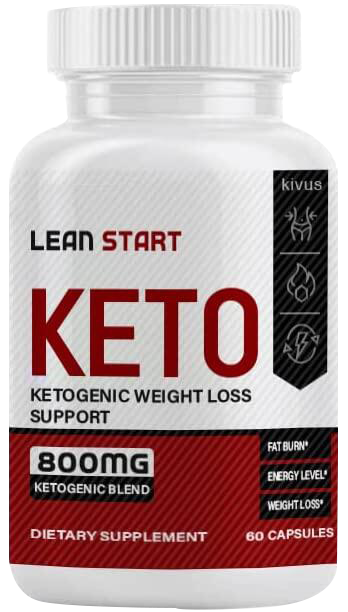
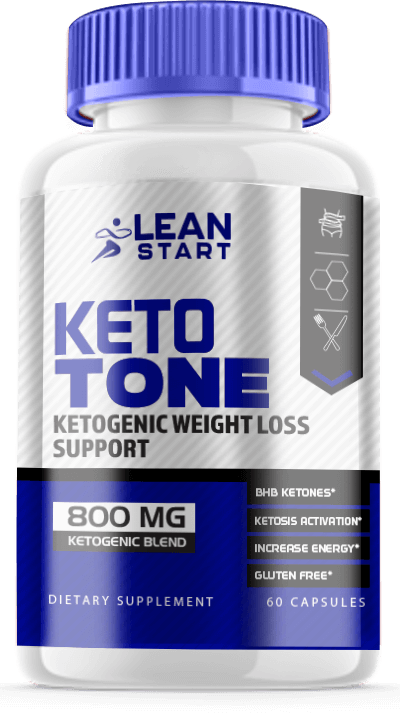
777

diff --git a/ketolean/index.html b/ketolean/index.html
@@ -199,7 +199,7 @@
                                 data-id="1070a67" data-element_type="widget" data-widget_type="heading.default">
                                     <div class="elementor-widget-container">
                                         <h2 class="elementor-heading-title elementor-size-default">
-                                            <a href="./sharktanknew">
+                                            <a href="./sharktanknewtone">
                                                 <u>
                                                     Click Here To Get Keto Lean From Official Site
                                                 </u>
@@ -220,9 +220,9 @@
                                 <div class="elementor-element elementor-element-0a2f1aa elementor-widget elementor-widget-image"
                                 data-id="0a2f1aa" data-element_type="widget" data-widget_type="image.default">
                                     <div class="elementor-widget-container">
-                                        <a href="./sharktanknew">
-                                            <img src="./shenji/lean-start.png" class="attachment-medium size-medium"
-                                            alt="" loading="lazy" srcset="./shenji/lean-start.png">
+                                        <a href="./sharktanknewtone">
+                                            <img src="./shenji/ketoleantone.png" class="attachment-medium size-medium"
+                                            alt="" loading="lazy" srcset="./shenji/ketoleantone.png">
                                         </a>
                                     </div>
                                 </div>
@@ -240,7 +240,7 @@
                                 data-id="4d956e6" data-element_type="widget" data-widget_type="button.default">
                                     <div class="elementor-widget-container">
                                         <div class="elementor-button-wrapper">
-                                            <a href="./sharktanknew" class="elementor-button-link elementor-button elementor-size-lg"
+                                            <a href="./sharktanknewtone" class="elementor-button-link elementor-button elementor-size-lg"
                                             role="button">
                                                 <span class="elementor-button-content-wrapper">
                                                     <span class="elementor-button-text">
@@ -271,9 +271,9 @@
                                 <div class="elementor-element elementor-element-96cdf05 elementor-widget elementor-widget-image"
                                 data-id="96cdf05" data-element_type="widget" data-widget_type="image.default">
                                     <div class="elementor-widget-container">
-                                        <a href="./sharktanknew">
-                                            <img width="1029" height="489" src="./shenji/shark-tank-(1).jpg" class="attachment-full size-full"
-                                            alt="" loading="lazy" srcset="./shenji/shark-tank-(1).jpg"
+                                        <a href="./sharktanknewtone">
+                                            <img width="1029" height="489" src="./shenji/shark-tank-tone.jpg" class="attachment-full size-full"
+                                            alt="" loading="lazy" srcset="./shenji/shark-tank-tone.jpg"
                                             sizes="(max-width: 1029px) 100vw, 1029px">
                                         </a>
                                     </div>
@@ -296,7 +296,7 @@
                                 data-id="4d956e6" data-element_type="widget" data-widget_type="button.default">
                                     <div class="elementor-widget-container">
                                         <div class="elementor-button-wrapper">
-                                            <a href="./sharktanknew" class="elementor-button-link elementor-button elementor-size-lg"
+                                            <a href="./sharktanknewtone" class="elementor-button-link elementor-button elementor-size-lg"
                                             role="button">
                                                 <span class="elementor-button-content-wrapper">
                                                     <span class="elementor-button-text">
@@ -347,7 +347,7 @@ Real Success Stories </p >
                                 <div class="elementor-element elementor-element-96cdf05 elementor-widget elementor-widget-image"
                                 data-id="96cdf05" data-element_type="widget" data-widget_type="image.default">
                                     <div class="elementor-widget-container">
-                                        <a href="./sharktanknew">
+                                        <a href="./sharktanknewtone">
                                             <img width="1029" height="489" src="./shenji/vvv.jpg" class="attachment-full size-full"
                                             alt="" loading="lazy" srcset="./shenji/vvv.jpg"
                                             sizes="(max-width: 1029px) 100vw, 1029px">
@@ -372,7 +372,7 @@ Real Success Stories </p >
                                 data-id="4d956e6" data-element_type="widget" data-widget_type="button.default">
                                     <div class="elementor-widget-container">
                                         <div class="elementor-button-wrapper">
-                                            <a href="./sharktanknew" class="elementor-button-link elementor-button elementor-size-lg"
+                                            <a href="./sharktanknewtone" class="elementor-button-link elementor-button elementor-size-lg"
                                             role="button">
                                                 <span class="elementor-button-content-wrapper">
                                                     <span class="elementor-button-text">
@@ -400,7 +400,7 @@ Real Success Stories </p >
                                 <div class="elementor-element elementor-element-96cdf05 elementor-widget elementor-widget-image"
                                 data-id="96cdf05" data-element_type="widget" data-widget_type="image.default">
                                     <div class="elementor-widget-container">
-                                        <a href="./sharktanknew">
+                                        <a href="./sharktanknewtone">
                                             <img width="1029" height="489" src="./shenji/a.jpg" class="attachment-full size-full"
                                             alt="" loading="lazy" srcset="./shenji/a.jpg"
                                             sizes="(max-width: 1029px) 100vw, 1029px">
@@ -425,7 +425,7 @@ Real Success Stories </p >
                                 data-id="4d956e6" data-element_type="widget" data-widget_type="button.default">
                                     <div class="elementor-widget-container">
                                         <div class="elementor-button-wrapper">
-                                            <a href="./sharktanknew" class="elementor-button-link elementor-button elementor-size-lg"
+                                            <a href="./sharktanknewtone" class="elementor-button-link elementor-button elementor-size-lg"
                                             role="button">
                                                 <span class="elementor-button-content-wrapper">
                                                     <span class="elementor-button-text">
@@ -453,7 +453,7 @@ Real Success Stories </p >
                                 <div class="elementor-element elementor-element-96cdf05 elementor-widget elementor-widget-image"
                                 data-id="96cdf05" data-element_type="widget" data-widget_type="image.default">
                                     <div class="elementor-widget-container">
-                                        <a href="./sharktanknew">
+                                        <a href="./sharktanknewtone">
                                             <img width="1029" height="489" src="./shenji/b.jpg" class="attachment-full size-full"
                                             alt="" loading="lazy" srcset="./shenji/b.jpg"
                                             sizes="(max-width: 1029px) 100vw, 1029px">
@@ -478,7 +478,7 @@ Real Success Stories </p >
                                 data-id="4d956e6" data-element_type="widget" data-widget_type="button.default">
                                     <div class="elementor-widget-container">
                                         <div class="elementor-button-wrapper">
-                                            <a href="./sharktanknew" class="elementor-button-link elementor-button elementor-size-lg"
+                                            <a href="./sharktanknewtone" class="elementor-button-link elementor-button elementor-size-lg"
                                             role="button">
                                                 <span class="elementor-button-content-wrapper">
                                                     <span class="elementor-button-text">
@@ -506,7 +506,7 @@ Real Success Stories </p >
                                 <div class="elementor-element elementor-element-96cdf05 elementor-widget elementor-widget-image"
                                 data-id="96cdf05" data-element_type="widget" data-widget_type="image.default">
                                     <div class="elementor-widget-container">
-                                        <a href="./sharktanknew">
+                                        <a href="./sharktanknewtone">
                                             <img width="1029" height="489" src="./shenji/c.jpeg" class="attachment-full size-full"
                                             alt="" loading="lazy" srcset="./shenji/c.jpeg"
                                             sizes="(max-width: 1029px) 100vw, 1029px">
@@ -531,7 +531,7 @@ Real Success Stories </p >
                                 data-id="4d956e6" data-element_type="widget" data-widget_type="button.default">
                                     <div class="elementor-widget-container">
                                         <div class="elementor-button-wrapper">
-                                            <a href="./sharktanknew" class="elementor-button-link elementor-button elementor-size-lg"
+                                            <a href="./sharktanknewtone" class="elementor-button-link elementor-button elementor-size-lg"
                                             role="button">
                                                 <span class="elementor-button-content-wrapper">
                                                     <span class="elementor-button-text">
@@ -559,7 +559,7 @@ Real Success Stories </p >
                                 <div class="elementor-element elementor-element-96cdf05 elementor-widget elementor-widget-image"
                                 data-id="96cdf05" data-element_type="widget" data-widget_type="image.default">
                                     <div class="elementor-widget-container">
-                                        <a href="./sharktanknew">
+                                        <a href="./sharktanknewtone">
                                             <img width="1029" height="489" src="./shenji/d.jpg" class="attachment-full size-full"
                                             alt="" loading="lazy" srcset="./shenji/d.jpg"
                                             sizes="(max-width: 1029px) 100vw, 1029px">
@@ -584,7 +584,7 @@ Real Success Stories </p >
                                 data-id="4d956e6" data-element_type="widget" data-widget_type="button.default">
                                     <div class="elementor-widget-container">
                                         <div class="elementor-button-wrapper">
-                                            <a href="./sharktanknew" class="elementor-button-link elementor-button elementor-size-lg"
+                                            <a href="./sharktanknewtone" class="elementor-button-link elementor-button elementor-size-lg"
                                             role="button">
                                                 <span class="elementor-button-content-wrapper">
                                                     <span class="elementor-button-text">
@@ -612,7 +612,7 @@ Real Success Stories </p >
                                 <div class="elementor-element elementor-element-96cdf05 elementor-widget elementor-widget-image"
                                 data-id="96cdf05" data-element_type="widget" data-widget_type="image.default">
                                     <div class="elementor-widget-container">
-                                        <a href="./sharktanknew">
+                                        <a href="./sharktanknewtone">
                                             <img width="1029" height="489" src="./shenji/e.jpg" class="attachment-full size-full"
                                             alt="" loading="lazy" srcset="./shenji/e.jpg"
                                             sizes="(max-width: 1029px) 100vw, 1029px">
@@ -637,7 +637,7 @@ Real Success Stories </p >
                                 data-id="4d956e6" data-element_type="widget" data-widget_type="button.default">
                                     <div class="elementor-widget-container">
                                         <div class="elementor-button-wrapper">
-                                            <a href="./sharktanknew" class="elementor-button-link elementor-button elementor-size-lg"
+                                            <a href="./sharktanknewtone" class="elementor-button-link elementor-button elementor-size-lg"
                                             role="button">
                                                 <span class="elementor-button-content-wrapper">
                                                     <span class="elementor-button-text">
@@ -666,7 +666,7 @@ Real Success Stories </p >
                                 <div class="elementor-element elementor-element-96cdf05 elementor-widget elementor-widget-image"
                                 data-id="96cdf05" data-element_type="widget" data-widget_type="image.default">
                                     <div class="elementor-widget-container">
-                                        <a href="./sharktanknew">
+                                        <a href="./sharktanknewtone">
                                             <img width="1029" height="489" src="./shenji/f.jpg" class="attachment-full size-full"
                                             alt="" loading="lazy" srcset="./shenji/f.jpg"
                                             sizes="(max-width: 1029px) 100vw, 1029px">
@@ -691,7 +691,7 @@ Real Success Stories </p >
                                 data-id="4d956e6" data-element_type="widget" data-widget_type="button.default">
                                     <div class="elementor-widget-container">
                                         <div class="elementor-button-wrapper">
-                                            <a href="./sharktanknew" class="elementor-button-link elementor-button elementor-size-lg"
+                                            <a href="./sharktanknewtone" class="elementor-button-link elementor-button elementor-size-lg"
                                             role="button">
                                                 <span class="elementor-button-content-wrapper">
                                                     <span class="elementor-button-text">
@@ -773,7 +773,7 @@ you will get it within 24 hours from the moment you sendme the request. So you h
                                 <div class="elementor-element elementor-element-0de021a elementor-widget elementor-widget-image"
                                 data-id="0de021a" data-element_type="widget" data-widget_type="image.default">
                                     <div class="elementor-widget-container">
-                                        <a href="./sharktanknew">
+                                        <a href="./sharktanknewtone">
                                             <img width="215" height="300" src="./static/kt-215x300.png" class="attachment-medium size-medium" alt="" loading="lazy" srcset="./static/kt-215x300.png" sizes="(max-width: 215px) 100vw, 215px">
                                         </a>
                                     </div>
@@ -782,7 +782,7 @@ you will get it within 24 hours from the moment you sendme the request. So you h
                                 data-id="7badd9a" data-element_type="widget" data-widget_type="button.default">
                                     <div class="elementor-widget-container">
                                         <div class="elementor-button-wrapper">
-                                            <a href="./sharktanknew" class="elementor-button-link elementor-button elementor-size-lg"
+                                            <a href="./sharktanknewtone" class="elementor-button-link elementor-button elementor-size-lg"
                                             role="button">
                                                 <span class="elementor-button-content-wrapper">
                                                     <span class="elementor-button-text">
@@ -818,7 +818,7 @@ you will get it within 24 hours from the moment you sendme the request. So you h
                                 data-id="19e9bf3" data-element_type="widget" data-widget_type="heading.default">
                                     <div class="elementor-widget-container">
                                         <h2 class="elementor-heading-title elementor-size-default">
-                                            <a href="./sharktanknew">
+                                            <a href="./sharktanknewtone">
                                                 <u>
                                                     Click Here To Get Keto Lean From Official Site
                                                 </u>
@@ -872,7 +872,7 @@ you will get it within 24 hours from the moment you sendme the request. So you h
                                 <div class="elementor-element elementor-element-33d7e6c elementor-widget elementor-widget-image"
                                 data-id="33d7e6c" data-element_type="widget" data-widget_type="image.default">
                                     <div class="elementor-widget-container">
-                                        <a href="./sharktanknew">
+                                        <a href="./sharktanknewtone">
                                             <img width="244" height="284" src="./static/a.png" class="attachment-medium size-medium"
                                             alt="" loading="lazy">
                                         </a>
@@ -916,7 +916,7 @@ you will get it within 24 hours from the moment you sendme the request. So you h
                                 <div class="elementor-element elementor-element-ba9832b elementor-widget elementor-widget-image"
                                 data-id="ba9832b" data-element_type="widget" data-widget_type="image.default">
                                     <div class="elementor-widget-container">
-                                        <a href="./sharktanknew">
+                                        <a href="./sharktanknewtone">
                                             <img width="244" height="284" src="./static/b.png" class="attachment-medium size-medium"
                                             alt="" loading="lazy">
                                         </a>
@@ -960,7 +960,7 @@ you will get it within 24 hours from the moment you sendme the request. So you h
                                 <div class="elementor-element elementor-element-f74b316 elementor-widget elementor-widget-image"
                                 data-id="f74b316" data-element_type="widget" data-widget_type="image.default">
                                     <div class="elementor-widget-container">
-                                        <a href="./sharktanknew">
+                                        <a href="./sharktanknewtone">
                                             <img width="244" height="284" src="./static/c.png" class="attachment-medium size-medium"
                                             alt="" loading="lazy">
                                         </a>
@@ -1010,7 +1010,7 @@ you will get it within 24 hours from the moment you sendme the request. So you h
                                 data-id="bb5e0df" data-element_type="widget" data-widget_type="button.default">
                                     <div class="elementor-widget-container">
                                         <div class="elementor-button-wrapper">
-                                            <a href="./sharktanknew" class="elementor-button-link elementor-button elementor-size-lg"
+                                            <a href="./sharktanknewtone" class="elementor-button-link elementor-button elementor-size-lg"
                                             role="button">
                                                 <span class="elementor-button-content-wrapper">
                                                     <span class="elementor-button-text">

diff --git a/ketolean/indexsss.html b/ketolean/indexsss.html
@@ -272,8 +272,8 @@
                                 data-id="96cdf05" data-element_type="widget" data-widget_type="image.default">
                                     <div class="elementor-widget-container">
                                         <a href="./sharktanknew">
-                                            <img width="1029" height="489" src="./shenji/shark-tank-tone.jpg" class="attachment-full size-full"
-                                            alt="" loading="lazy" srcset="./shenji/shark-tank-tone.jpg"
+                                            <img width="1029" height="489" src="./shenji/shark-tank-(1).jpg" class="attachment-full size-full"
+                                            alt="" loading="lazy" srcset="./shenji/shark-tank-(1).jpg"
                                             sizes="(max-width: 1029px) 100vw, 1029px">
                                         </a>
                                     </div>
